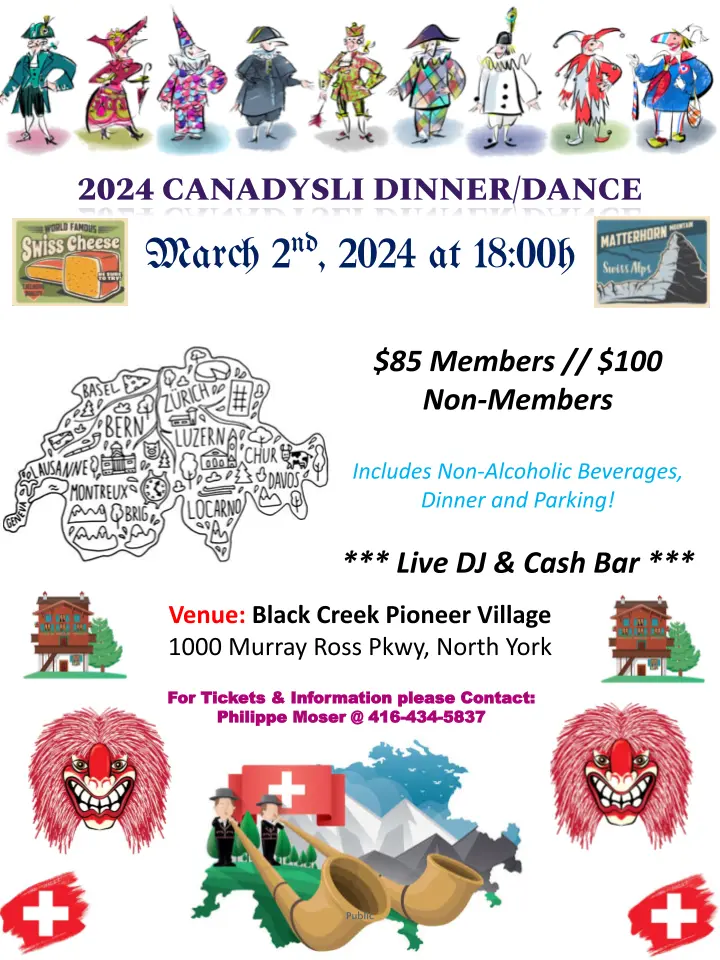
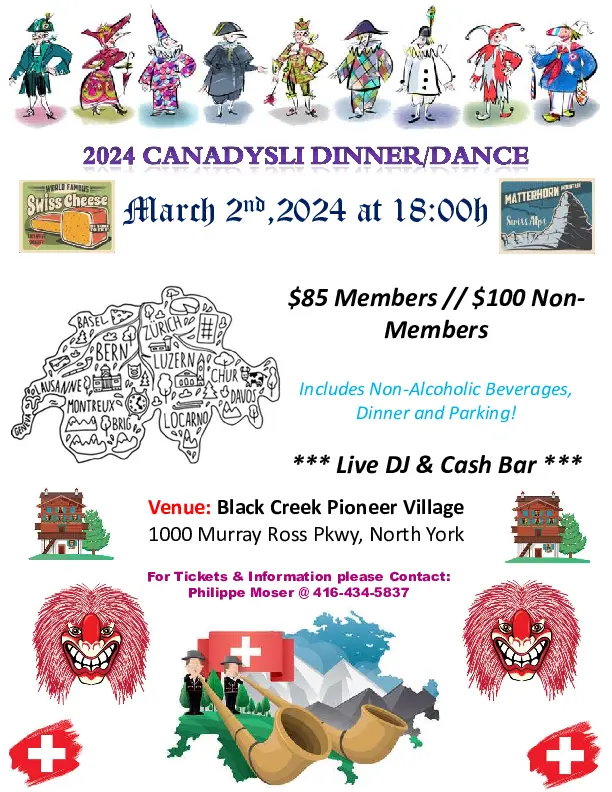
Update Canadysli event info and poster

diff --git a/_events/2024-03-02-canadysli.md b/_events/2024-03-02-canadysli.md
@@ -8,10 +8,13 @@ contact: Philippe
 cost: |
   $85 members
   $100 non-members
+  $50 children
 teaser: assets/images/2024-03-02-canadysli.webp
 ---
 
 Join us for the 2024 edition of the Canadysli Dinner & Dance!
 
 For tickets and information, please reach out to {{ page.contact }}. The ticket
-cost includes non-alcoholic beverages, dinner, and parking.
+cost includes non-alcoholic beverages, dinner, and parking. If you'd like to
+pay with e-Transfer, please use {% include email.html
+addr="torontocanadysli@gmail.com" %}.
